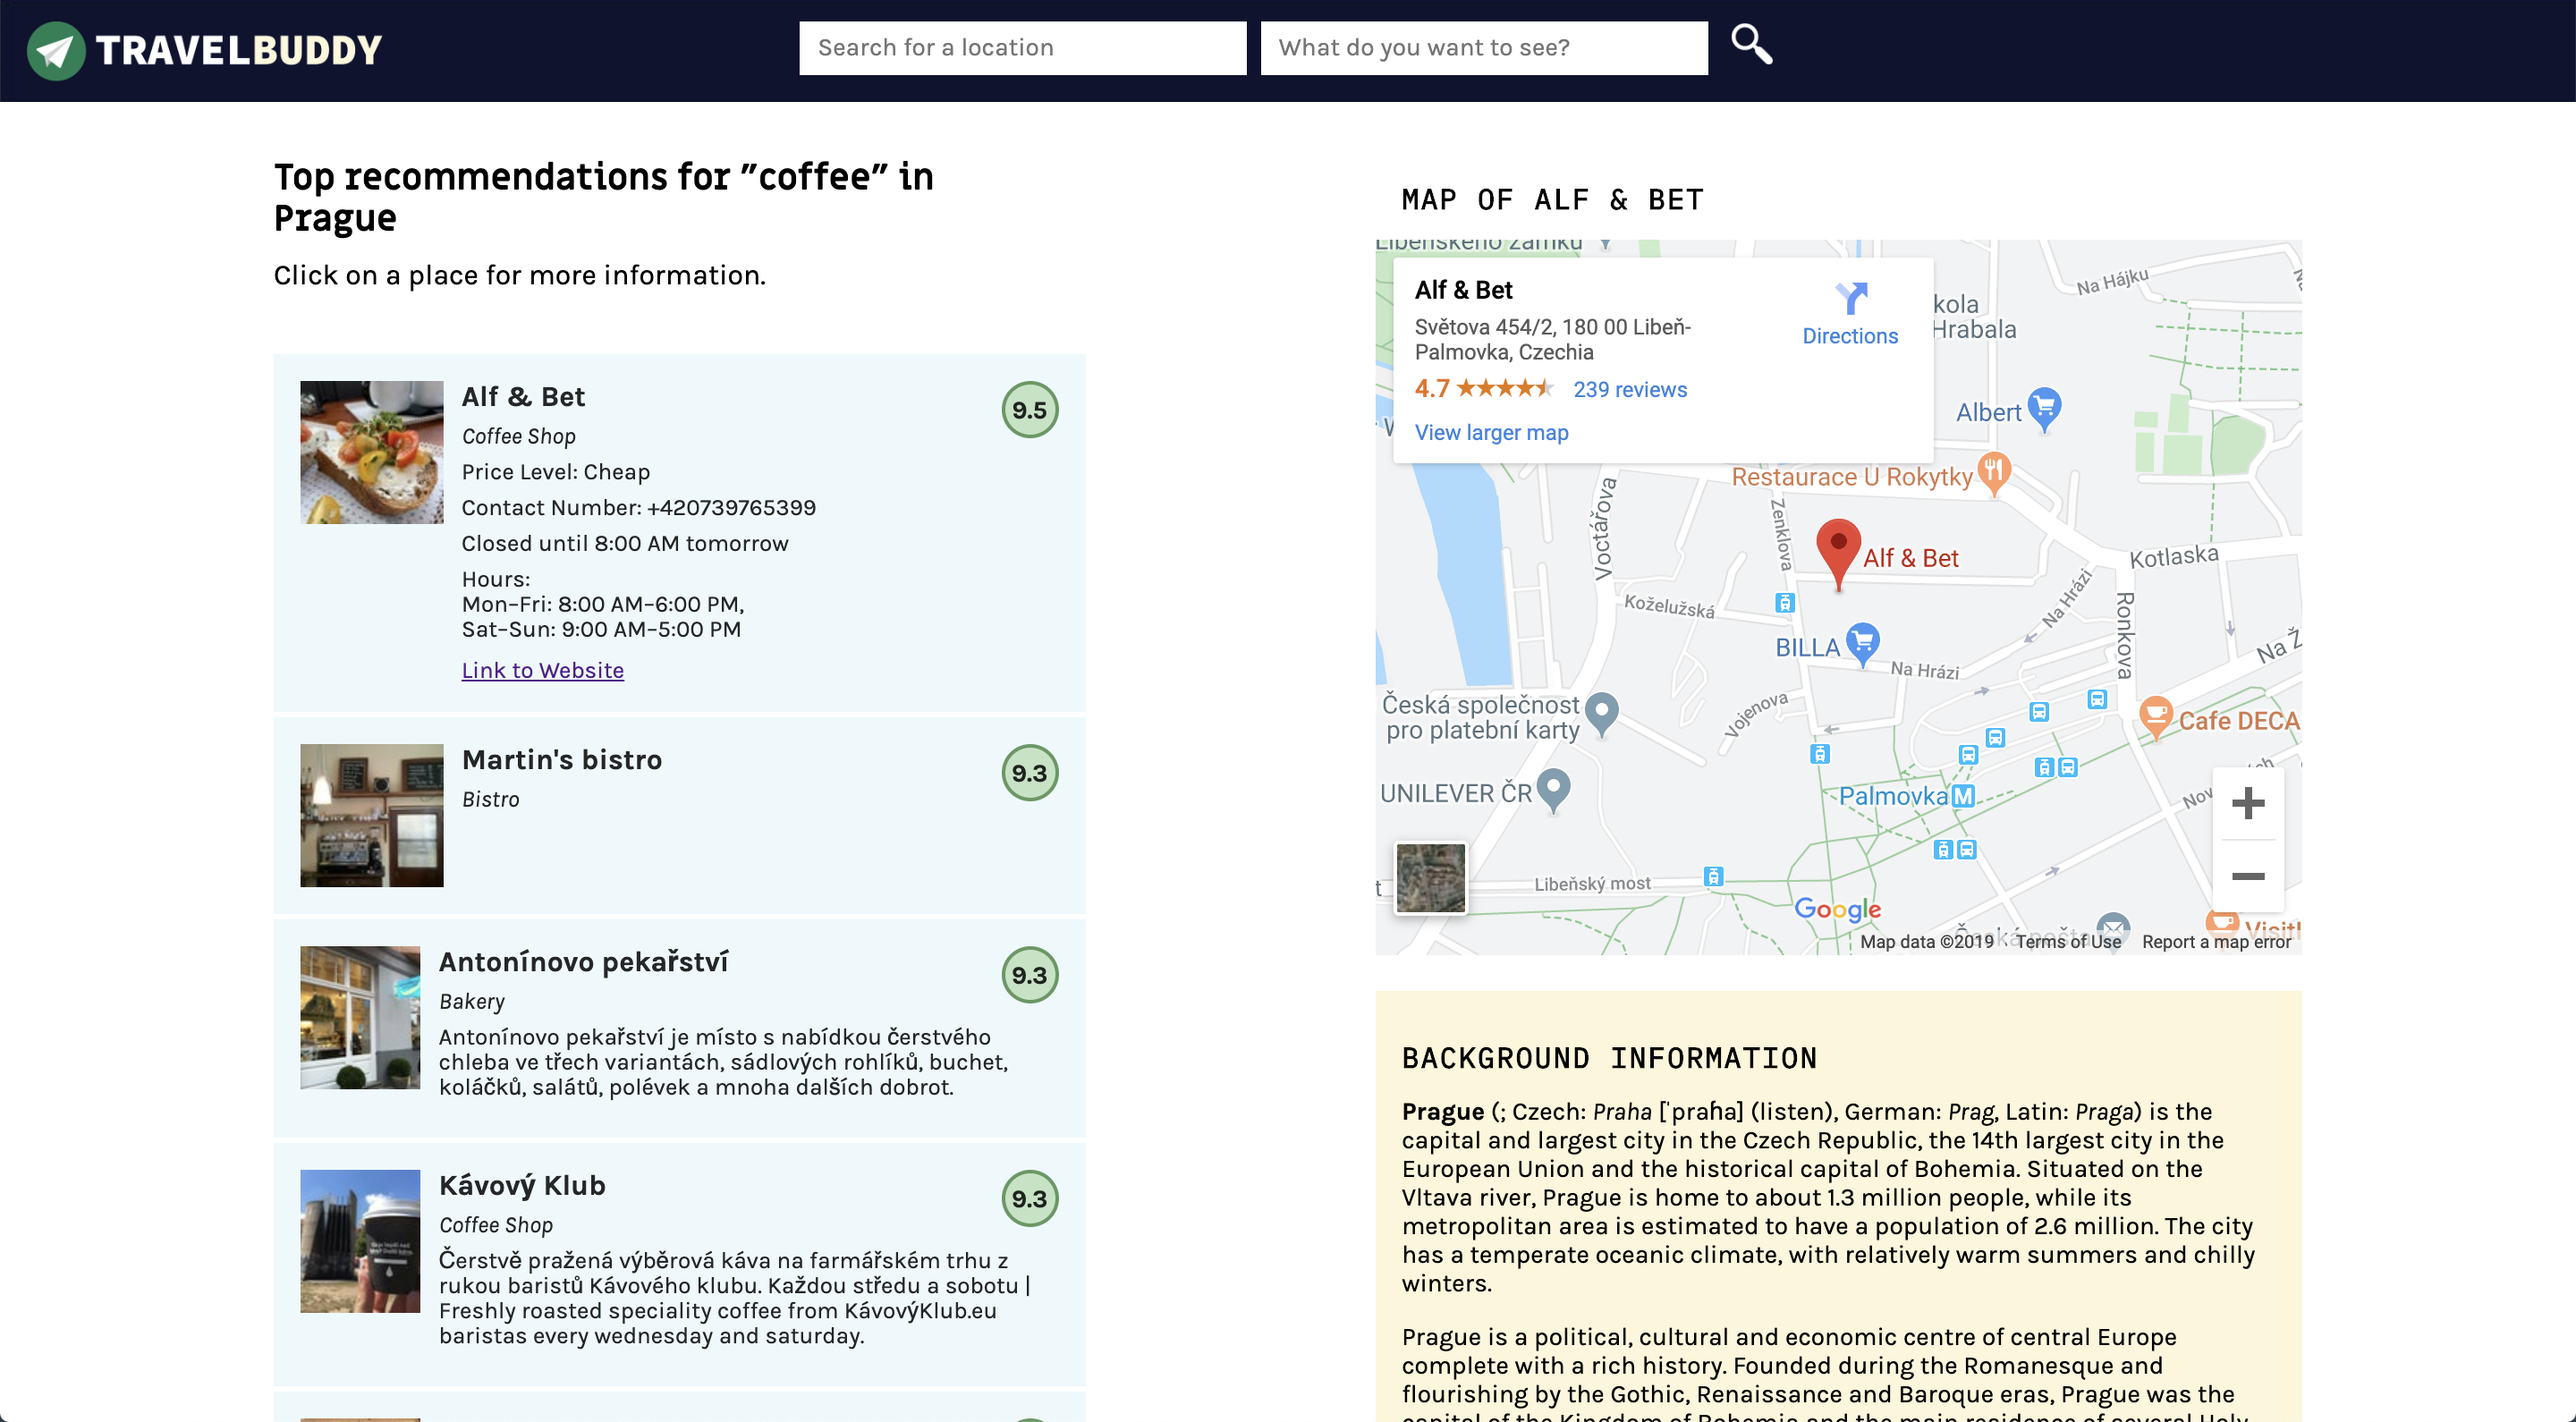
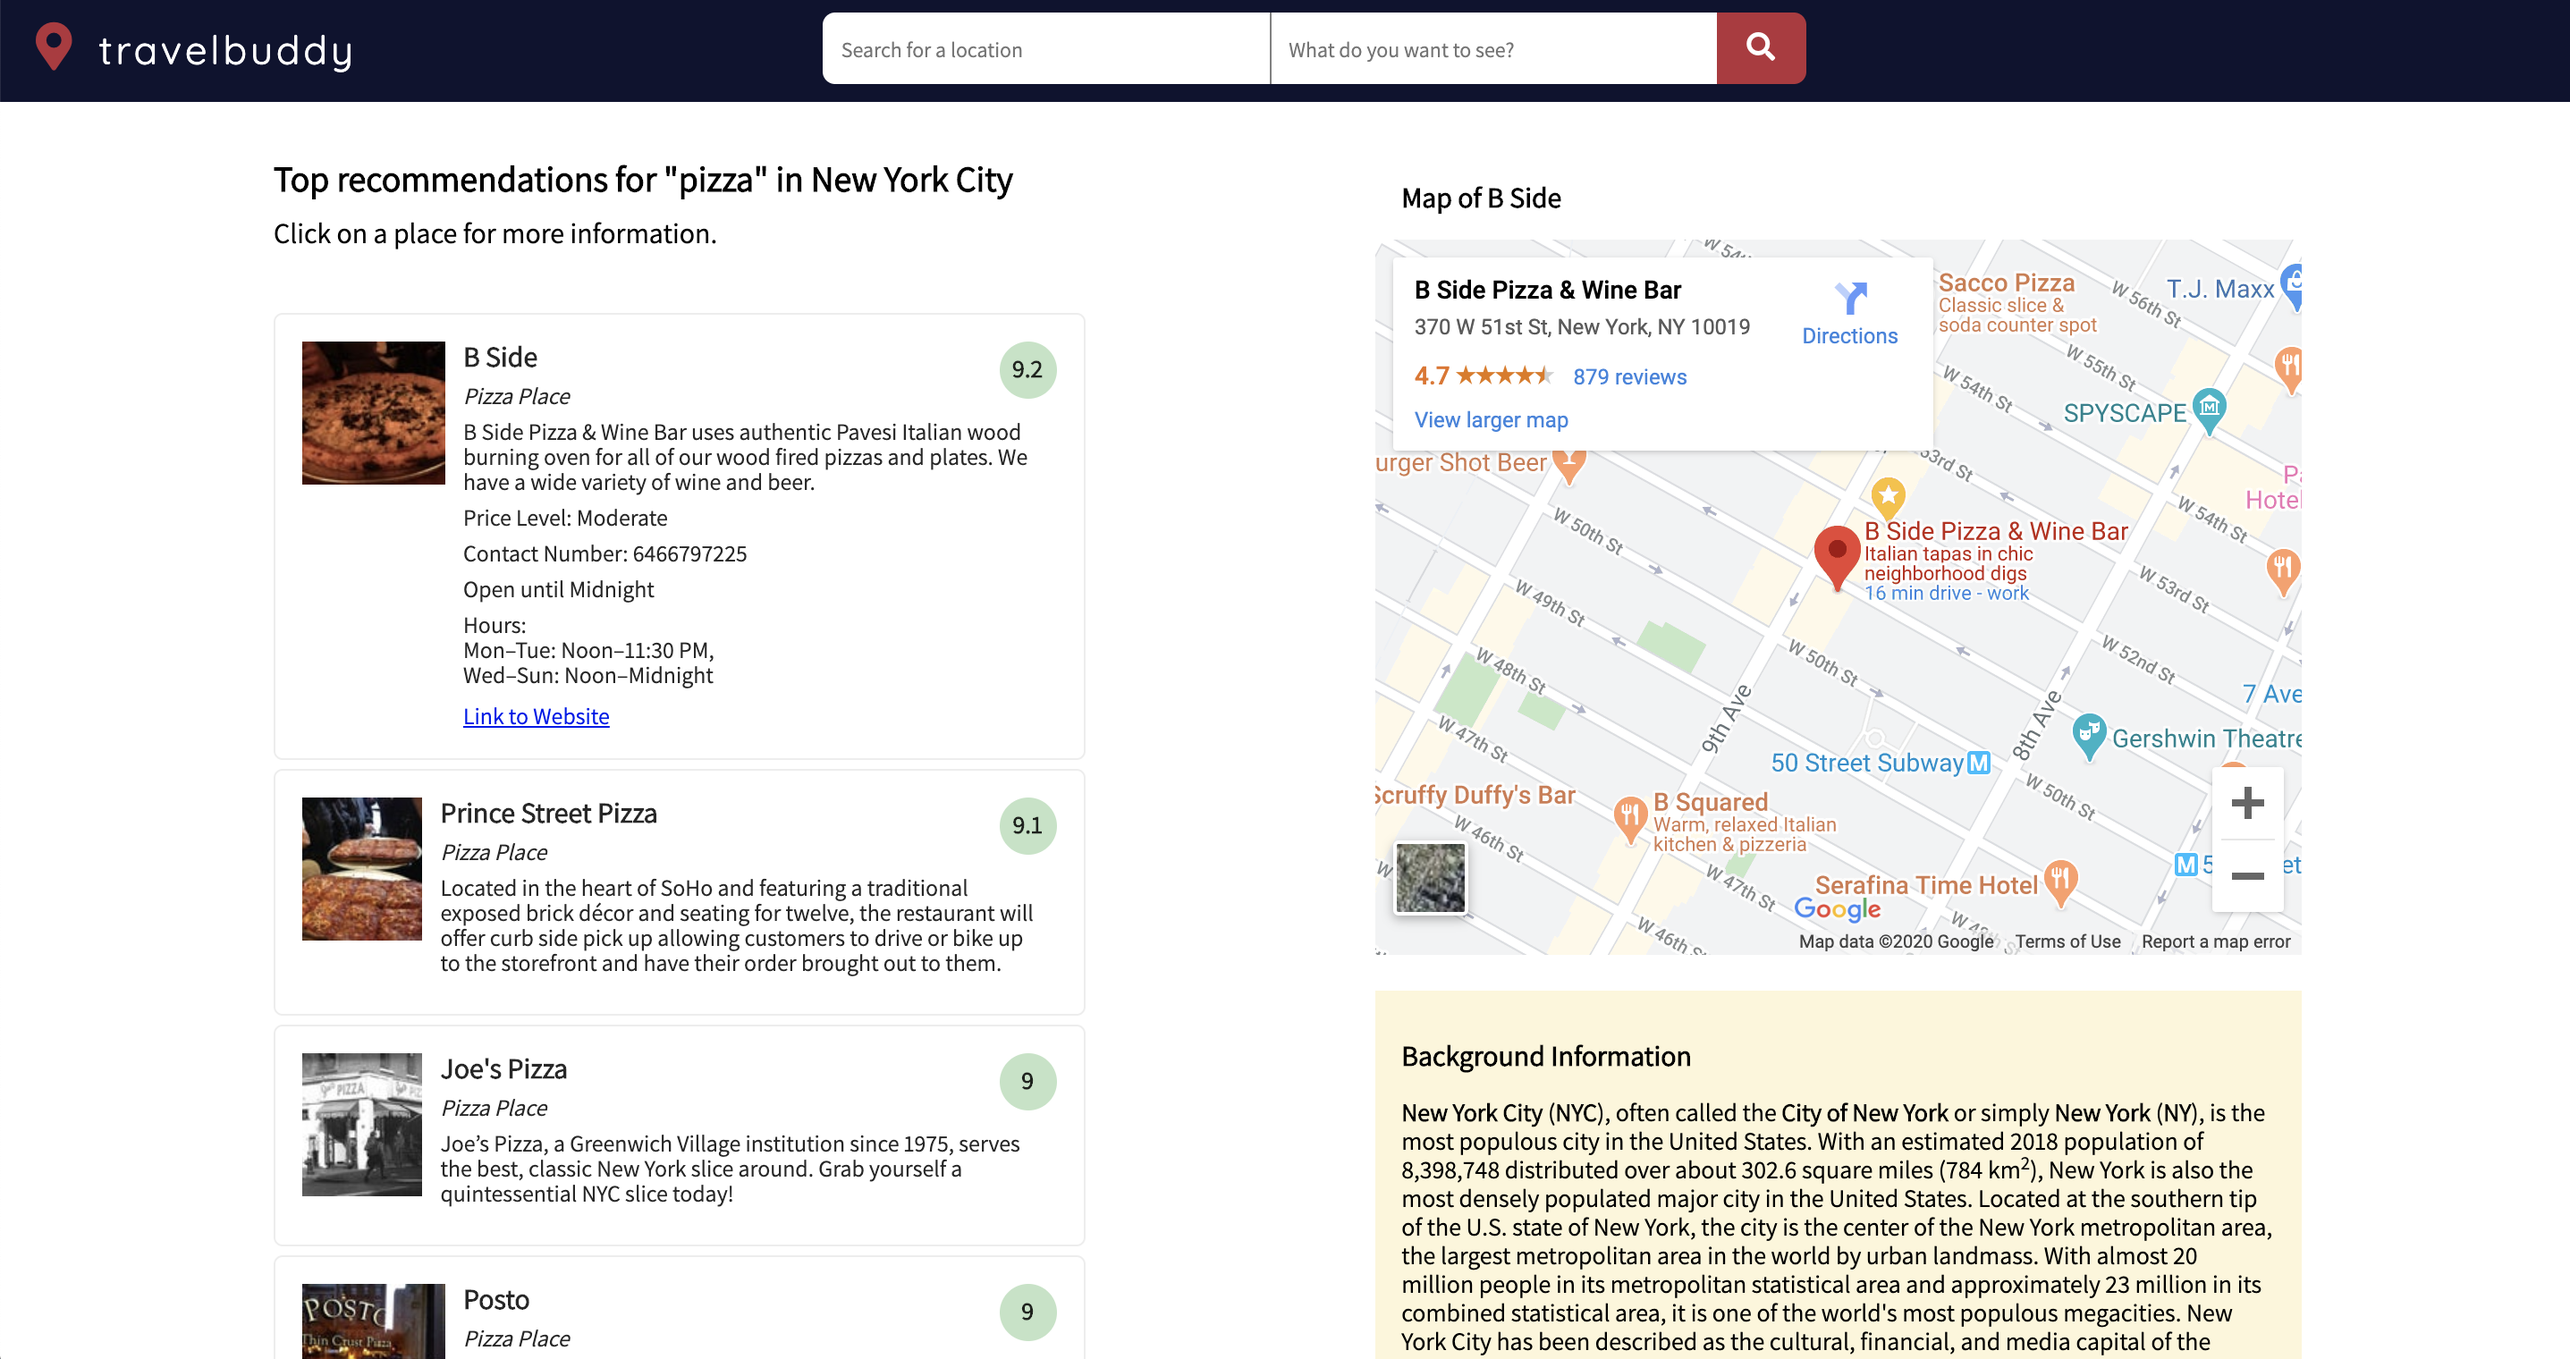
improved search result design and replaced screenshots for readme

diff --git a/style.css b/style.css
@@ -242,12 +242,12 @@ main {
 .places-result-item {
 	display: flex;
 	padding: 15px;
-	margin: 3px 0;
+	margin: 5px 0;
 	width: 100%;
 	text-align: left;
-	border: none;
+	border: 1px solid #ededed;
+	border-radius: 5px;
 	cursor: pointer;
-	background-color: #edf9fc;
 }
 
 .places-image, .news-image {
@@ -273,7 +273,6 @@ main {
 	text-align: center;
 	line-height: 30px;
 	border-radius: 50%;
-	border: 2px solid #5f995f;
 }
 
 .places-name-and-rating {
@@ -384,14 +383,8 @@ main {
 	font-style: italic;
 }
 
-.news-section h2, .wikipedia-section h2, .map-section h2 {
-	font-family: 'IBM Plex Mono', sans-serif;
-	text-transform: uppercase;
-	letter-spacing: 1px;
-}
-
 .places-section h2 {
-	font-family: 'Miriam Libre', sans-serif;
+	font-size: 20px;
 }
 
 .js-error-message {
